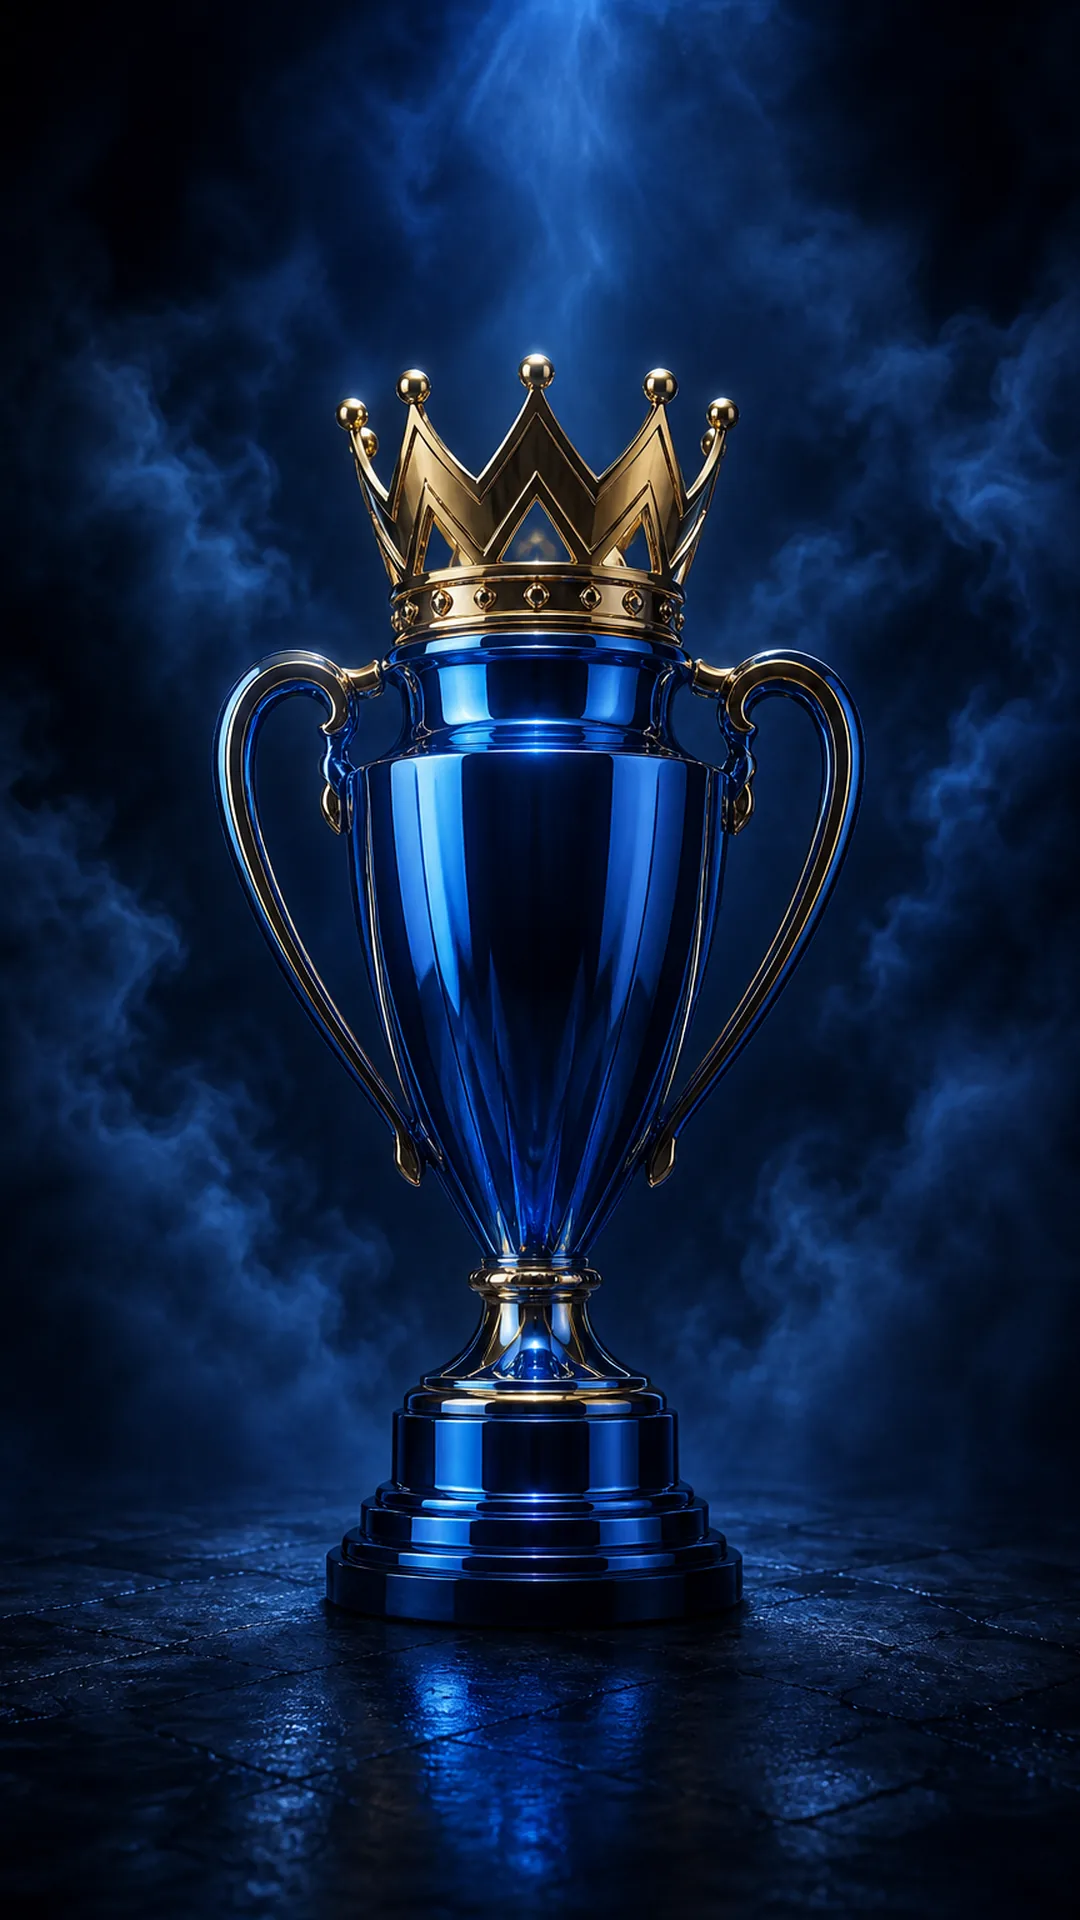
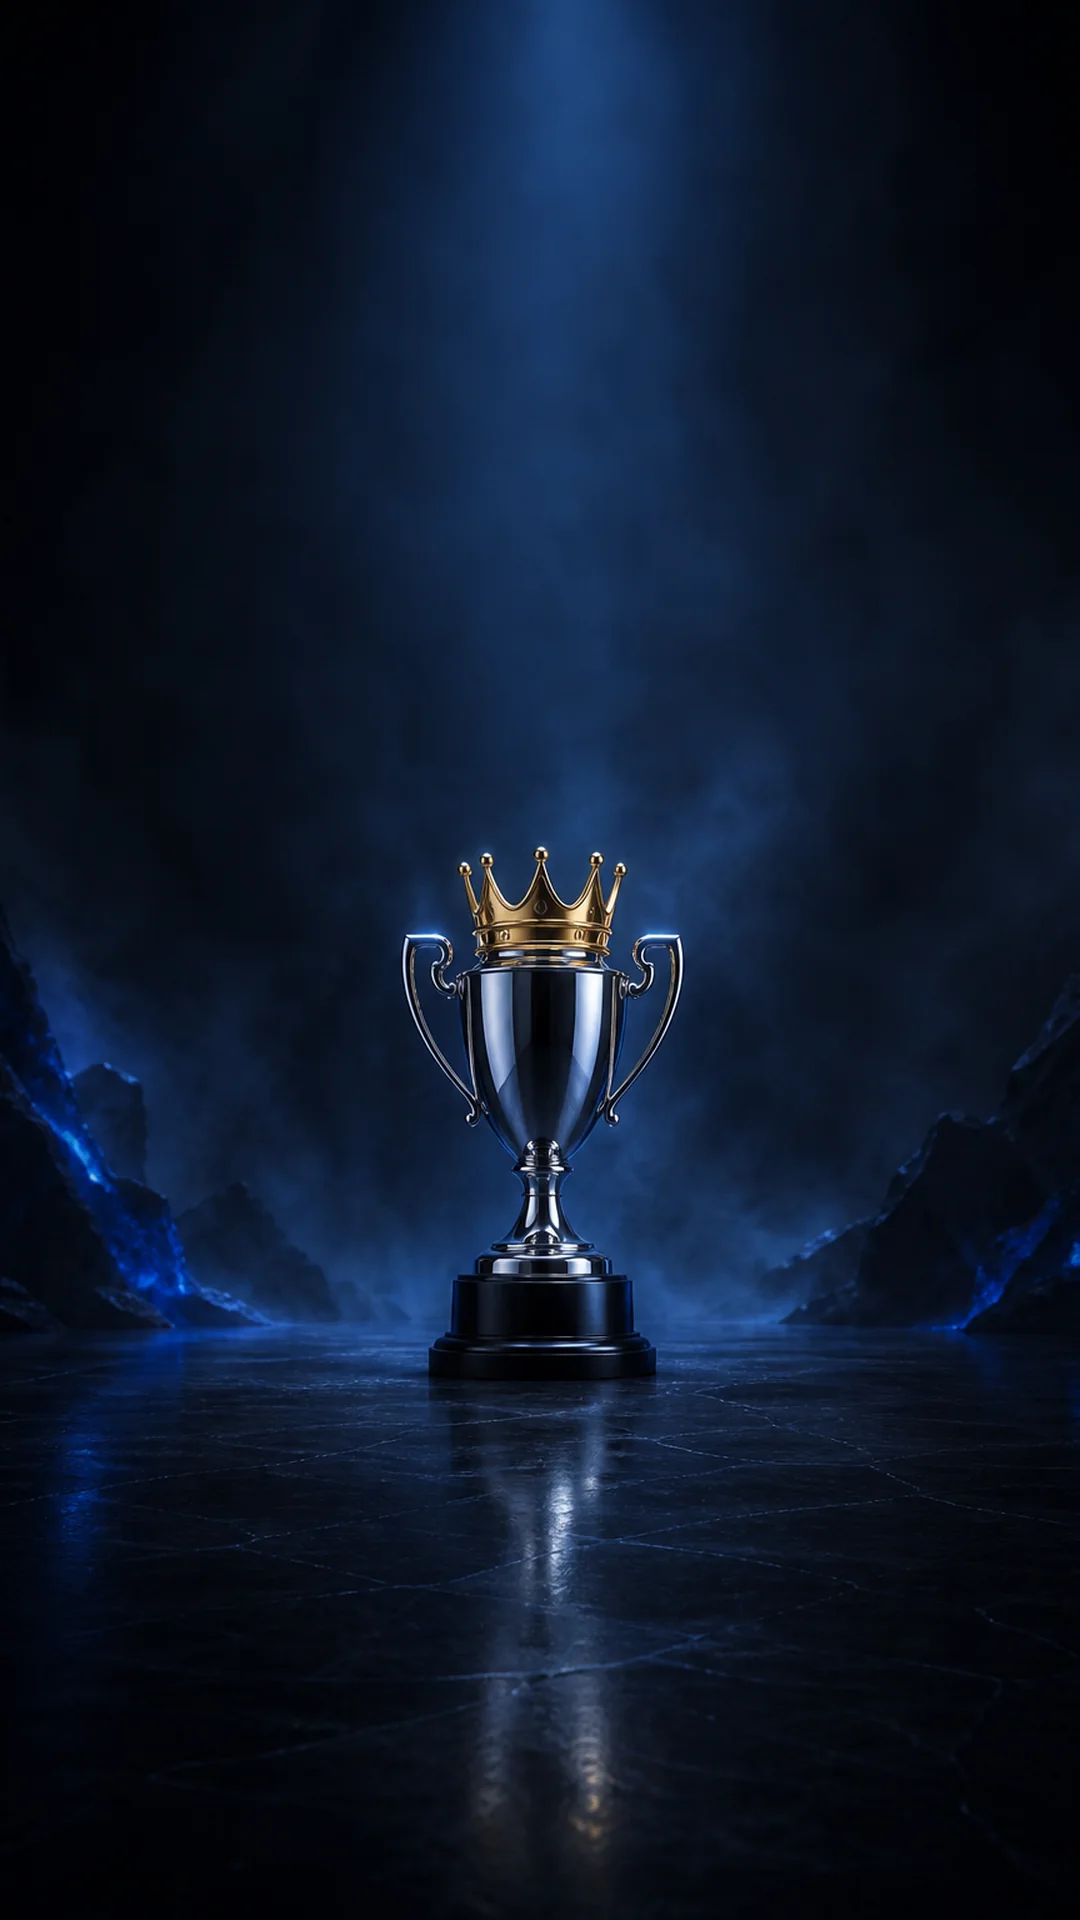
fix(hero): pull trophy back — wider establishing shot
Replace close-cropped hero WebPs with a wider scene so the trophy
reads smaller in frame, and nudge object-position + cache-bust.

diff --git a/src/components/scl/competition-hero.tsx b/src/components/scl/competition-hero.tsx
@@ -81,19 +81,19 @@ export function CompetitionHero() {
         }
       }}
     >
-      {/* Layer 1 — single full-bleed scene (no cover/contain dual stack) */}
+      {/* Layer 1 — single full-bleed scene; artwork is a wider establishing shot */}
       <picture className="pointer-events-none absolute inset-0">
         <source
           media="(min-width: 640px)"
-          srcSet="/assets/scl/leaderboard-trophy-desktop.webp?v=20260717g"
+          srcSet="/assets/scl/leaderboard-trophy-desktop.webp?v=20260717z"
         />
         <img
-          src="/assets/scl/leaderboard-trophy-mobile.webp?v=20260717g"
+          src="/assets/scl/leaderboard-trophy-mobile.webp?v=20260717z"
           alt=""
           width="1080"
           height="1920"
           fetchPriority="high"
-          className="size-full object-cover object-center opacity-95"
+          className="size-full object-cover object-[70%_center] opacity-95 sm:object-[72%_45%]"
         />
       </picture>
       {/* Layers 2–4 — ink scrims for copy contrast only (no hue shift) */}

diff --git a/docs/SCL_DEPLOYMENT.md b/docs/SCL_DEPLOYMENT.md
@@ -127,4 +127,4 @@ Vercel **project env vars** (`DATABASE_URL`, `AUTH_SECRET`, …) only configure 
 They do **not** trigger builds. Without a working Option A auto-deploy or a Deploy Hook /
 CLI secrets, merges to `main` will not change the live site.
 
-<!-- deploy-hook check 2026-07-17T04:10:00Z gold-crown hero -->
+<!-- deploy-hook check 2026-07-17T20:15:00Z hero less zoom -->
